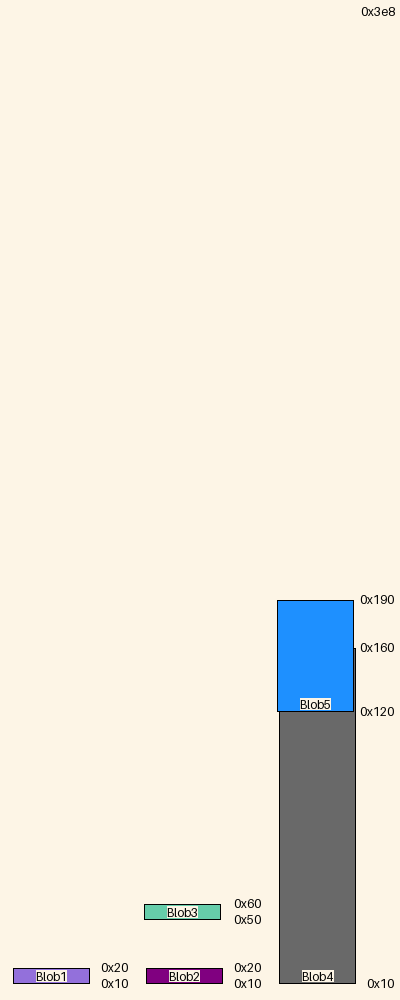
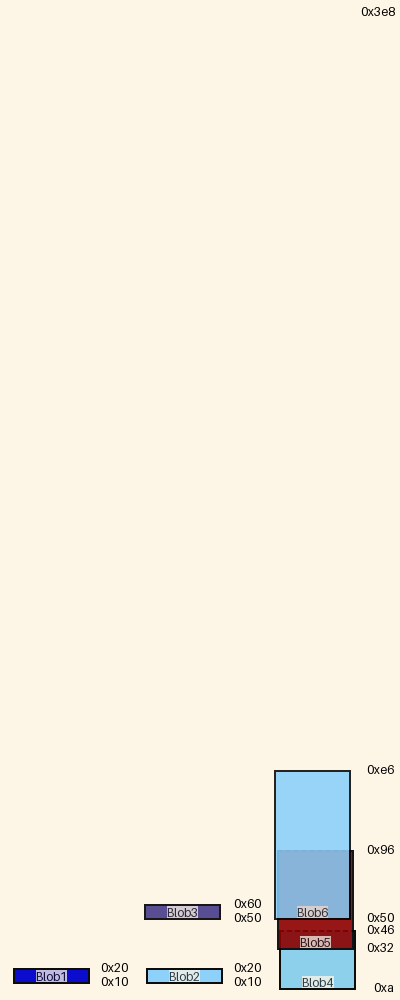
added alpha and dashed lines to regions

diff --git a/mm/image.py b/mm/image.py
@@ -118,7 +118,6 @@ class MemoryRegionImage(Image):
         """ lookup memory_region freespace from metamodel  """
         return self.metadata.freespace
 
-
     @property
     def collisions(self):
         """ lookup memory_region collision from metamodel  """
@@ -171,29 +170,24 @@ class MemoryRegionImage(Image):
             ]
 
     def _draw(self, img_width: int, font_size: int):
+        """Create the image for the region rectangle and its inset name label"""
 
         logging.info(self)
         if not self.size_as_hex:
             logging.warning("Zero size region will not be added.")
             return None
 
-        # MemoryRegionImage Blocks and text
-        region_img = PIL.Image.new("RGBA", (img_width, int(self.size_as_hex,16)), color="white")
-        self.region_canvas = PIL.ImageDraw.Draw(region_img)
-
-        # height is -1 to avoid clipping the top border
-        self.region_canvas.rectangle(
-            (0, 0, img_width - 1, int(self.size_as_hex,16) - 1),
-            fill=self.fill,
-            outline=self.line,
-            width=1,
-        )
+        if self.freespace_as_int < 0:
+            region_img = DashedRectangle(
+                img_width, int(self.size_as_hex,16), fill=self.fill, line=self.line, dash=(0,0,8,0), stroke=2).img
+        else:
+            region_img = DashedRectangle(
+                img_width, int(self.size_as_hex,16), fill=self.fill, line=self.line, dash=(0,0,0,0), stroke=2).img
+            
 
         # draw name text
-        txt_img =  TextLabelImage(text=self.name, font_size=font_size).img
-        region_img.paste(
-            txt_img, 
-            ((img_width - txt_img.width) // 2, 2))
+        txt_lbl =  TextLabelImage(text=self.name, font_size=font_size)
+        region_img = txt_lbl.overlay(region_img, ((img_width - txt_lbl.img.width) // 2, 2), 192 )
 
         self.img = region_img
 
@@ -210,20 +204,10 @@ class VoidRegionImage(Image):
 
         logging.info(self)
 
-        # MemoryRegionImage Blocks and text
-        self.img = PIL.Image.new("RGBA", (img_width + 1, self.size_as_hex), color="white")
-        self.region_canvas = PIL.ImageDraw.Draw(self.img)
-
-        # height is -1 to avoid clipping the top border
-        self.region_canvas.rectangle(
-            (0, 0, img_width, self.size_as_hex - 1),
-            fill="oldlace",
-            outline="black",
-            width=1,
-        )
+        self.img = DashedRectangle(img_width, self.size_as_hex, dash=(8,0,8,0), stroke=2, line="grey").img
 
         # draw name text
-        txt_img = TextLabelImage(text=self.name, font_size=font_size).img
+        txt_img = TextLabelImage(text=self.name, font_size=font_size, font_colour="grey").img
         self.img.paste(
             txt_img,
             ((img_width - txt_img.width) // 2, (self.size_as_hex - txt_img.height) // 2),
@@ -232,7 +216,7 @@ class VoidRegionImage(Image):
 
 @typeguard.typechecked
 class TextLabelImage(Image):
-    def __init__(self, text: str, font_size: int):
+    def __init__(self, text: str, font_size: int, font_colour: str = "black"):
         super().__init__(name=text)
 
         self.font = PIL.ImageFont.load_default(font_size)
@@ -250,7 +234,7 @@ class TextLabelImage(Image):
         self.bgcolour = "oldlace"
         """The background colour to use for the region text label"""
 
-        self.fgcolour = "black"
+        self.fgcolour = font_colour
         """The foreground colour to use for the region text label"""
 
         self._draw()
@@ -259,7 +243,7 @@ class TextLabelImage(Image):
 
         # make the image bigger than the actual text bbox so there is plenty of space for the text
         self.img = PIL.Image.new(
-            "RGB", 
+            "RGBA", 
             (self.width, (self.height)), 
             color=self.bgcolour)
         
@@ -295,6 +279,77 @@ class ArrowBlock(Image):
             fill=fill, 
             outline=line, 
             width=2)
+
+@typeguard.typechecked
+class DashedRectangle(Image):
+    def __init__(
+            self, 
+            w: int, 
+            h: int, 
+            dash: Tuple[int, int, int, int] = (0,0,0,0),
+            fill: str = "white", 
+            line: str = "black", 
+            stroke: float = 1):
+        """dash is 4-tuple of top, right, bottom, left edges, set to 0 or 1 to disable"""
+
+        top_dash = dash[0] if dash[0] > 1 else 1
+        
+        bottom_dot = dash[2] if dash[2] > 1 else 1
+        
+
+        self.img = PIL.Image.new("RGBA", (w , h), color=fill)        
+        canvas = PIL.ImageDraw.Draw(self.img)
+        line_center = (stroke // 2)  
+        
+        # start from top edge at 0,0 and go clockwise back to 0,0
+
+        # top line: enable dash with top_dash > 1
+        if top_dash > 1:
+            for x in range(0, w, top_dash):
+                if stroke % 2:
+                    canvas.line(xy=[(x, line_center), 
+                                    (x + (top_dash // 2), line_center)], 
+                                fill=line, width=stroke)
+                else:
+                    canvas.line(xy=[(x, line_center - 1), 
+                                    (x + (top_dash // 2), line_center - 1)], 
+                                fill=line, width=stroke)        
+        else:
+            if stroke % 2:
+                canvas.line(xy=[(0, line_center), 
+                                (w, line_center)], 
+                            fill=line, width=stroke)
+            else:
+                canvas.line(xy=[(0, line_center - 1), 
+                                (w, line_center - 1)], 
+                            fill=line, width=stroke)   
+        # right line
+        canvas.line(xy=[(w - line_center - 1, 0), 
+                        (w - line_center - 1, h - line_center - 1)], 
+                    fill=line, width=stroke)
+        
+                                
+        # bottom line: enable dash with top_dash > 1
+        if bottom_dot > 1:
+            for x in range(0, w, bottom_dot):
+                canvas.line(xy=[(x, h - line_center - 1), 
+                                (x + (bottom_dot // 2), h - line_center - 1)], 
+                            fill=line, width=stroke)
+        else:
+            canvas.line(xy=[(0, h - line_center - 1), 
+                            (w, h - line_center - 1)], 
+                        fill=line, width=stroke)            
+
+        # left line
+        if stroke % 2:
+            canvas.line(xy=[(line_center, 0), 
+                            (line_center, h - line_center - 1)], 
+                        fill=line, width=stroke)
+        else:
+            canvas.line(xy=[(line_center - 1, 0), 
+                            (line_center - 1, h - line_center - 1)], 
+                        fill=line, width=stroke)
+            
 
 
 class Table:

diff --git a/mm/diagram.py b/mm/diagram.py
@@ -91,10 +91,6 @@ class MemoryMapDiagram:
         for image in image_list:
             image.draw_indent = region_indent
             region_indent += 5
-
-        # sort in descending size order for z-order.
-        # smaller in foreground, larger in background
-        image_list.sort(key=lambda x: x.size_as_int, reverse=True)
         
         self._draw(image_list)
 
@@ -111,15 +107,18 @@ class MemoryMapDiagram:
             color=Diagram.model.diagram_bgcolour)
         
         # paste each new graphic element image to main image
+        alpha = 255
         for memregion in image_list:
             if not memregion.img:
                 continue
-
+        
+            alpha = alpha - 12
+            
             new_diagram_img = memregion.overlay(
                 dest=new_diagram_img, 
                 pos=((((self.width + memregion.draw_indent - self._legend_width) - memregion.img.width) // 2) + self._legend_width, 
                  int(memregion.origin_as_hex,16)),
-                alpha=255
+                alpha=alpha
             )
 
             # End address text for this memory region
@@ -151,7 +150,7 @@ class MemoryMapDiagram:
             origin_text_label = mm.image.TextLabelImage(memregion.origin_as_hex, self.fixed_legend_text_size)
             new_diagram_img.paste(
                 origin_text_label.img,
-                (5, int(memregion.origin_as_hex,16) - (origin_text_label.height // 2) + 1 ),
+                (5, int(memregion.origin_as_hex,16) - (origin_text_label.height // 2) + 3 ),
             )
 
             for x in range(
@@ -186,8 +185,7 @@ class MemoryMapDiagram:
         # find the large empty spaces in the memory map
         region_subset_list: List[PIL.Image.Image] = []
         img_addr_idx = 0
-        # TODO sort memregion_list by ascending
-        # memregion_list.sort(key=lambda x: x.size_as_hex, reverse=True)
+
         for memregion in memregion_list:
             region_end_addr = memregion.origin_as_int + memregion.size_as_int
             if memregion.freespace_as_int > self.voidthreshold:
@@ -282,12 +280,15 @@ class Diagram:
         Diagram._validate_pargs()
         Diagram.model = Diagram._create_model()
 
+        # Create the individual memory map diagrams (full and reduced)
         for mmap_name, mmap in Diagram.model.memory_maps.items():
             self.mmd_list.append(MemoryMapDiagram({mmap_name: mmap}))
             pass
 
+        # composite the memory map diagrams into single diagram
         self._draw_full_img_diagram()
         self._draw_reduced_img_diagram()
+
         self._create_table_image(self.mmd_list)
         self._create_markdown(self.mmd_list)        
 

diff --git a/tests/test_docs.py b/tests/test_docs.py
@@ -147,12 +147,16 @@ def test_generate_doc_example_three_maps(input, setup):
         "memory_regions": 
         {
             "Blob4": {
-            "memory_region_origin": "0x10",
-            "memory_region_size": "0x150"
+            "memory_region_origin": hex(10),
+            "memory_region_size": hex(60)
             },
             "Blob5": {
-            "memory_region_origin": "0x120",
-            "memory_region_size": "0x70"
+            "memory_region_origin": hex(50),
+            "memory_region_size": hex(100)
+            },
+            "Blob6": {
+            "memory_region_origin": hex(80),
+            "memory_region_size": hex(150)
             }
         }        
     }

diff --git a/doc/example/tests.test_docs_three_maps.md b/doc/example/tests.test_docs_three_maps.md
@@ -1,8 +1,9 @@
 ![memory map diagram](tests.test_docs_three_maps_cropped.png)
 |name|origin|size|free Space|collisions
 |:-|:-|:-|:-|:-|
-|<span style='color:dimgrey'>Blob4</span>|0x10|0x150|-0x40|{'Blob5': '0x120'}|
-|<span style='color:dodgerblue'>Blob5</span>|0x120|0x70|0x258|{'Blob4': '0x120'}|
-|<span style='color:purple'>Blob2</span>|0x10|0x10|0x30|{}|
-|<span style='color:mediumaquamarine'>Blob3</span>|0x50|0x10|0x388|{}|
-|<span style='color:mediumpurple'>Blob1</span>|0x10|0x10|0x3c8|{}|
+|<span style='color:skyblue'>Blob4</span>|0xa|0x3c|-0x14|{'Blob5': '0x32'}|
+|<span style='color:darkred'>Blob5</span>|0x32|0x64|-0x46|{'Blob4': '0x32', 'Blob6': '0x50'}|
+|<span style='color:lightskyblue'>Blob6</span>|0x50|0x96|0x302|{'Blob5': '0x50'}|
+|<span style='color:lightskyblue'>Blob2</span>|0x10|0x10|0x30|{}|
+|<span style='color:darkslateblue'>Blob3</span>|0x50|0x10|0x388|{}|
+|<span style='color:mediumblue'>Blob1</span>|0x10|0x10|0x3c8|{}|

diff --git a/doc/example/tests.test_docs_collisions.md b/doc/example/tests.test_docs_collisions.md
@@ -1,6 +1,6 @@
 ![memory map diagram](tests.test_docs_collisions_cropped.png)
 |name|origin|size|free Space|collisions
 |:-|:-|:-|:-|:-|
-|<span style='color:deepskyblue'>kernel</span>|0x10|0x60|-0x20|{'rootfs': '0x50'}|
-|<span style='color:mediumpurple'>rootfs</span>|0x50|0x50|-0x10|{'kernel': '0x50', 'dtb': '0x90'}|
-|<span style='color:darkcyan'>dtb</span>|0x90|0x30|0x328|{'rootfs': '0x90'}|
+|<span style='color:green'>kernel</span>|0x10|0x60|-0x20|{'rootfs': '0x50'}|
+|<span style='color:darkturquoise'>rootfs</span>|0x50|0x50|-0x10|{'kernel': '0x50', 'dtb': '0x90'}|
+|<span style='color:lightgreen'>dtb</span>|0x90|0x30|0x328|{'rootfs': '0x90'}|

diff --git a/doc/example/tests.test_docs_two_maps.md b/doc/example/tests.test_docs_two_maps.md
@@ -1,6 +1,6 @@
 ![memory map diagram](tests.test_docs_two_maps_cropped.png)
 |name|origin|size|free Space|collisions
 |:-|:-|:-|:-|:-|
-|<span style='color:darkslateblue'>Blob2</span>|0x10|0x10|0x30|{}|
-|<span style='color:dimgrey'>Blob3</span>|0x50|0x10|0x388|{}|
-|<span style='color:darkslategray'>Blob1</span>|0x10|0x10|0x3c8|{}|
+|<span style='color:skyblue'>Blob2</span>|0x10|0x10|0x30|{}|
+|<span style='color:mediumseagreen'>Blob3</span>|0x50|0x10|0x388|{}|
+|<span style='color:lightslategrey'>Blob1</span>|0x10|0x10|0x3c8|{}|

diff --git a/doc/example/tests.test_docs_normal.md b/doc/example/tests.test_docs_normal.md
@@ -1,6 +1,6 @@
 ![memory map diagram](tests.test_docs_normal_cropped.png)
 |name|origin|size|free Space|collisions
 |:-|:-|:-|:-|:-|
-|<span style='color:blue'>kernel</span>|0x10|0x30|0x10|{}|
-|<span style='color:skyblue'>rootfs</span>|0x50|0x30|0x110|{}|
-|<span style='color:lightslategrey'>dtb</span>|0x190|0x30|0x228|{}|
+|<span style='color:darkolivegreen'>kernel</span>|0x10|0x30|0x10|{}|
+|<span style='color:mediumturquoise'>rootfs</span>|0x50|0x30|0x110|{}|
+|<span style='color:darkblue'>dtb</span>|0x190|0x30|0x228|{}|
